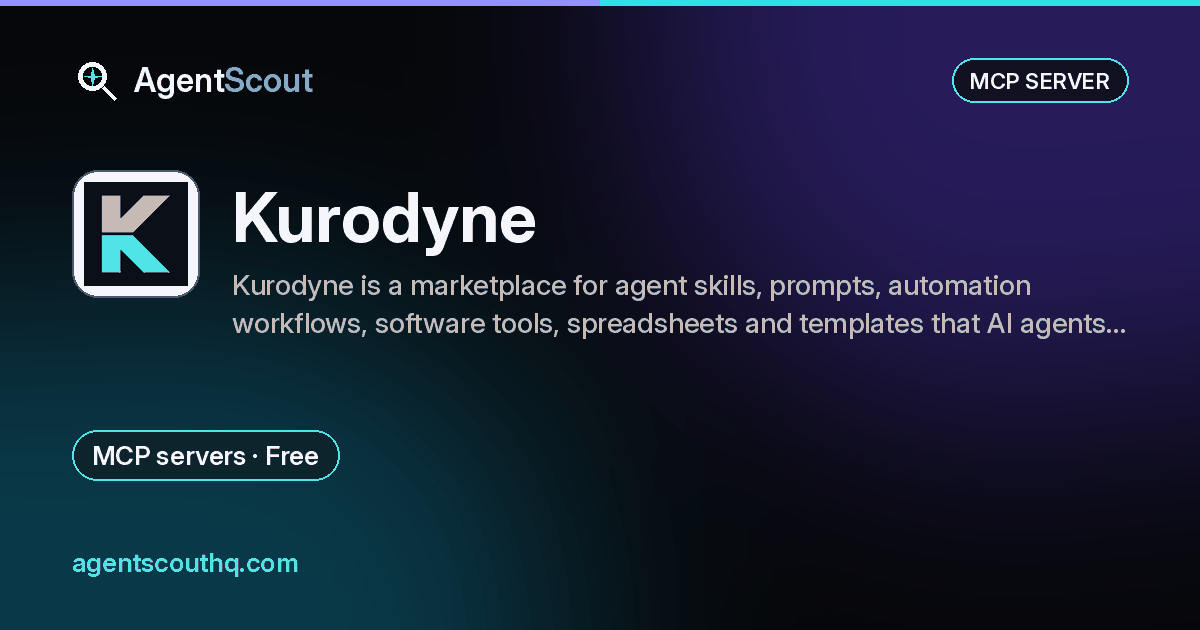
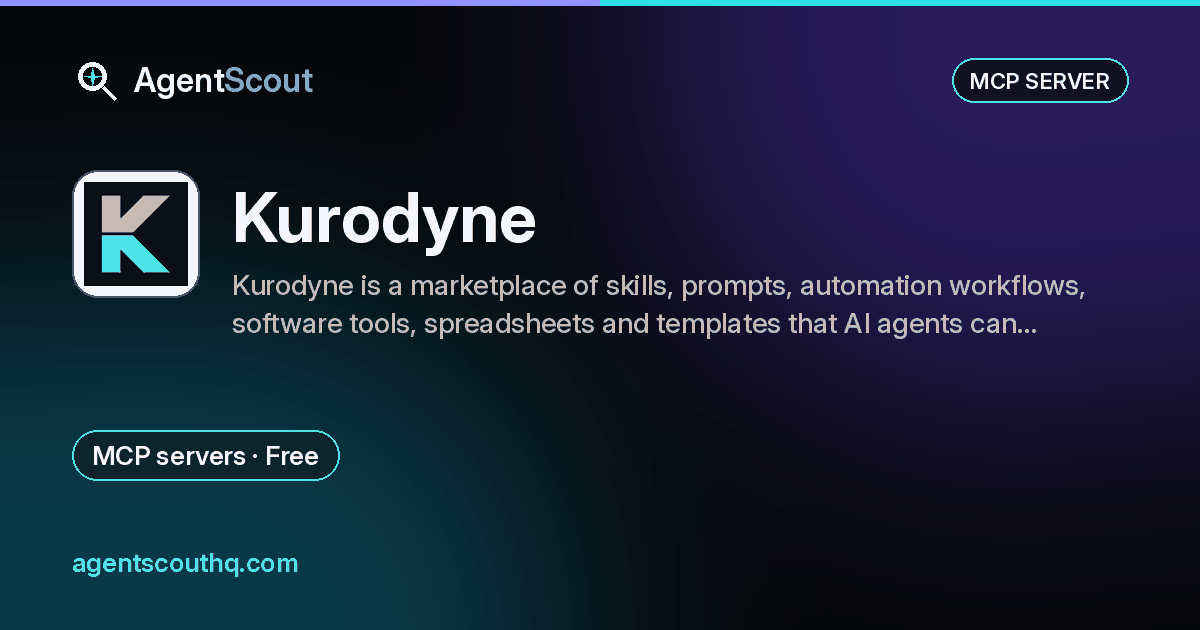
Regenerate the Kurodyne share image to match the current listing text (#229)
The share card still said "a marketplace for agent skills" because #227
updated the listing copy but did not re-run build_og.py. Rebuild this
one card from the current description, update its og_cache key, and bump
the page ?v= cache-buster so the live image stays consistent.

Changed region(s): [[0.185, 0.4222, 0.925, 0.5429]]

diff --git a/tools/kurodyne.html b/tools/kurodyne.html
@@ -6,7 +6,7 @@
 <script>(function(){try{var t=localStorage.getItem("agentscout-theme")}catch(e){}try{var tq=new URLSearchParams(location.search).get("theme");if(tq==="light"||tq==="dark")t=tq}catch(e){}if(t!=="dark"&&t!=="light")t="dark";document.documentElement.dataset.theme=t;window.asToggleTheme=function(){var n=document.documentElement.dataset.theme==="dark"?"light":"dark";document.documentElement.dataset.theme=n;try{localStorage.setItem("agentscout-theme",n)}catch(e){}}})()</script>
 <meta name="viewport" content="width=device-width,initial-scale=1">
 <link rel="icon" type="image/svg+xml" href="../favicon.svg"><link rel="apple-touch-icon" href="../logo-square.png"><link rel="manifest" href="/manifest.json">
-<meta property="og:site_name" content="AgentScout"><meta property="og:image" content="https://agentscouthq.com/og/tools/kurodyne.png?v=9f2273ec8d"><meta property="og:image:width" content="1200"><meta property="og:image:height" content="630"><meta property="og:image:alt" content="Kurodyne, on AgentScout"><meta name="twitter:image" content="https://agentscouthq.com/og/tools/kurodyne.png?v=9f2273ec8d"><meta name="twitter:title" content="Kurodyne · AgentScout"><meta name="twitter:description" content="Kurodyne is a marketplace of skills, prompts, automation workflows, software tools, spreadsheets and templates that AI agents can search. Its Catalog MCP server is free to use with no account, so agents can search products, read reviews and pull each product&#x27;s README. Sellers use a separate Seller Console MCP to have their own agent publish products and answer buyers. Prices run from $5 to $500, with a 20% fee per sale and no listing or monthly fees. A person reviews every listing, and packages are malware-scanned and fingerprinted."><meta name="twitter:card" content="summary_large_image"><meta name="twitter:site" content="@AgentScoutHQ"><meta name="twitter:creator" content="@AgentScoutHQ"><script type="application/ld+json">{"@context": "https://schema.org", "@type": "Organization", "name": "AgentScout", "url": "https://agentscouthq.com/", "logo": "https://agentscouthq.com/logo-square.png", "sameAs": ["https://x.com/clampdown19", "https://x.com/AgentScoutHQ", "https://agentscout.beehiiv.com/", "https://github.com/clampdown19/agentscout", "https://github.com/Clampdown-web/agentscout"], "contactPoint": {"@type": "ContactPoint", "contactType": "submissions and support", "email": "support@agentscouthq.com"}}</script><meta name="theme-color" content="#0E1015">
+<meta property="og:site_name" content="AgentScout"><meta property="og:image" content="https://agentscouthq.com/og/tools/kurodyne.png?v=21362bc399"><meta property="og:image:width" content="1200"><meta property="og:image:height" content="630"><meta property="og:image:alt" content="Kurodyne, on AgentScout"><meta name="twitter:image" content="https://agentscouthq.com/og/tools/kurodyne.png?v=21362bc399"><meta name="twitter:title" content="Kurodyne · AgentScout"><meta name="twitter:description" content="Kurodyne is a marketplace of skills, prompts, automation workflows, software tools, spreadsheets and templates that AI agents can search. Its Catalog MCP server is free to use with no account, so agents can search products, read reviews and pull each product&#x27;s README. Sellers use a separate Seller Console MCP to have their own agent publish products and answer buyers. Prices run from $5 to $500, with a 20% fee per sale and no listing or monthly fees. A person reviews every listing, and packages are malware-scanned and fingerprinted."><meta name="twitter:card" content="summary_large_image"><meta name="twitter:site" content="@AgentScoutHQ"><meta name="twitter:creator" content="@AgentScoutHQ"><script type="application/ld+json">{"@context": "https://schema.org", "@type": "Organization", "name": "AgentScout", "url": "https://agentscouthq.com/", "logo": "https://agentscouthq.com/logo-square.png", "sameAs": ["https://x.com/clampdown19", "https://x.com/AgentScoutHQ", "https://agentscout.beehiiv.com/", "https://github.com/clampdown19/agentscout", "https://github.com/Clampdown-web/agentscout"], "contactPoint": {"@type": "ContactPoint", "contactType": "submissions and support", "email": "support@agentscouthq.com"}}</script><meta name="theme-color" content="#0E1015">
 <link rel="preload" href="../assets/fonts/inter-latin.woff2" as="font" type="font/woff2" crossorigin>
 <link rel="stylesheet" href="../styles.css?v=202611271046">
 <link rel="alternate" type="application/rss+xml" title="AgentScout" href="https://agentscouthq.com/feed.xml">
